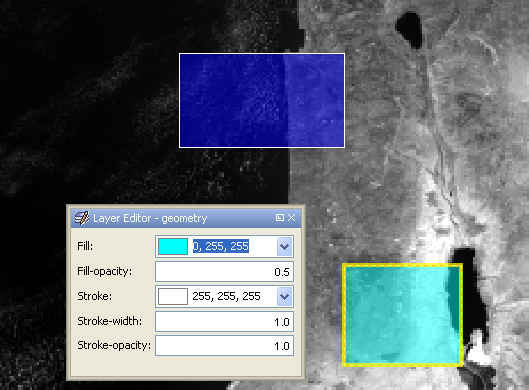
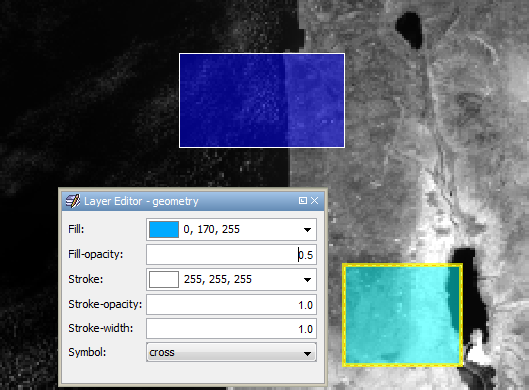
added link in help and updated screenshot

Changed region(s): [[0.0907, 0.4615, 0.6352, 1.0]]

diff --git a/beam-help/src/main/resources/doc/help/visat/PinManagement.html b/beam-help/src/main/resources/doc/help/visat/PinManagement.html
@@ -163,6 +163,9 @@
     <code>symbol:pin;fill:#00AAFF;fill-opacity:0.0;stroke:#FF00FF;stroke-opacity:0.2;stroke-width:0.5</code>
 </p>
 
+<p>
+    However, it is easier by far to edit the pin's styles using the <a href="LayerManagerWindow.html">Layer Editors</a>.
+</p>
 
 <hr>
 </body>
